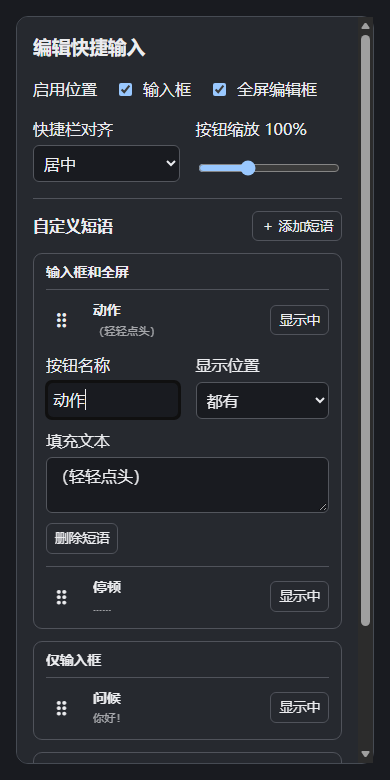
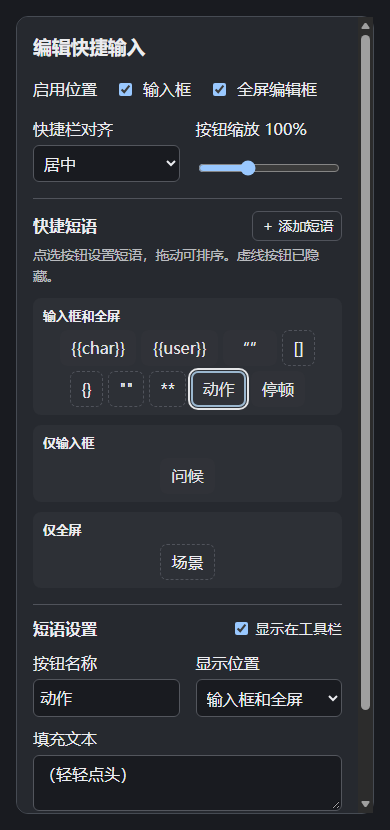
横向展示短语按钮并分离短语设置区

diff --git a/tools/editor-phrases.js b/tools/editor-phrases.js
@@ -1,6 +1,7 @@
 import { getPhrases } from './editor-phrase-catalog.js';
+import { getToolbarScale } from './toolbar-scale.js';
 
-const positions = new Map([['both', '都有'], ['chat', '仅输入框'], ['fullscreen', '仅全屏']]);
+const positions = new Map([['both', '输入框和全屏'], ['chat', '仅输入框'], ['fullscreen', '仅全屏']]);
 
 function element(tag, className, text) {
     const node = document.createElement(tag);
@@ -9,11 +10,9 @@ function element(tag, className, text) {
     return node;
 }
 
-function button(text, title) {
-    const node = element('button', 'st-phrase-action', text);
+function button(text, className) {
+    const node = element('button', className, text);
     node.type = 'button';
-    node.title = title;
-    node.setAttribute('aria-label', title);
     return node;
 }
 
@@ -21,14 +20,15 @@ export function addPhraseSettings(canvas, config) {
     const phrases = config.phrases = getPhrases(config);
     const section = element('section', 'st-phrases');
     const header = element('div', 'st-phrases-heading');
-    const add = button('＋ 添加短语', '添加短语');
+    const add = button('＋ 添加短语', 'st-phrase-action');
     header.append(element('h4', '', '快捷短语'), add);
     const lists = element('div', 'st-phrases-lists');
-    section.append(header, lists);
-    canvas.append(section);
-    let editing;
-    const rows = new Map();
-    const groups = new Map();
+    const settings = element('section', 'st-phrase-settings');
+    section.append(header, element('small', 'st-phrase-hint', '点选按钮设置短语，拖动可排序。虚线按钮已隐藏。'), lists);
+    canvas.append(section, settings);
+
+    let selected = phrases[0];
+    const chips = new Map();
 
     function move(phrase, position, before) {
         if (before === phrase || (phrase.builtin && position !== 'both')) return;
@@ -37,159 +37,153 @@ export function addPhraseSettings(canvas, config) {
         phrases.splice(before ? phrases.indexOf(before) : phrases.length, 0, phrase);
     }
 
-    function attachHandle(handle, phrase) {
-        handle.addEventListener('keydown', event => {
+    function attachDrag(chip, phrase) {
+        chip.onkeydown = event => {
             const siblings = phrases.filter(item => item.position === phrase.position);
             const index = siblings.indexOf(phrase);
-            const direction = { ArrowUp: -1, ArrowDown: 1 }[event.key];
+            const direction = { ArrowLeft: -1, ArrowRight: 1 }[event.key];
             if (!direction || !siblings[index + direction]) return;
             event.preventDefault();
             move(phrase, phrase.position, siblings[index + (direction < 0 ? -1 : 2)]);
-            render();
-            rows.get(phrase).querySelector('button').focus();
-        });
-        handle.addEventListener('pointerdown', event => {
-            if (event.button !== 0 || !event.isPrimary) return;
-            event.preventDefault();
-            handle.setPointerCapture(event.pointerId);
-            const row = rows.get(phrase);
-            row.classList.add('moving');
-            let target;
-            function locate(e) {
-                lists.querySelector('.drop-before, .drop-end')?.classList.remove('drop-before', 'drop-end');
-                target = undefined;
-                const hit = document.elementFromPoint(e.clientX, e.clientY);
-                const group = hit?.closest('.st-phrase-group');
-                if (!lists.contains(group)) return;
+            select(phrase);
+            chips.get(phrase).focus();
+        };
+        chip.onpointerdown = down => {
+            if (down.button !== 0 || !down.isPrimary) return;
+            chip.setPointerCapture(down.pointerId);
+            let dragging = false;
+            let marker;
+            function locate(event) {
+                marker?.classList.remove('drop-before', 'drop-end');
+                const group = document.elementFromPoint(event.clientX, event.clientY)?.closest('.st-phrase-group');
+                if (!lists.contains(group) || (phrase.builtin && group.dataset.position !== 'both')) return;
                 const position = group.dataset.position;
                 const before = phrases.find(item => {
                     if (item.position !== position) return false;
-                    const rect = rows.get(item).getBoundingClientRect();
-                    return e.clientY < rect.top + rect.height / 2;
+                    const rect = chips.get(item).getBoundingClientRect();
+                    return event.clientY < rect.top || (event.clientY <= rect.bottom && event.clientX < rect.left + rect.width / 2);
                 });
-                target = { position, before };
-                (before ? rows.get(before) : group).classList.add(before ? 'drop-before' : 'drop-end');
+                marker = before ? chips.get(before) : group;
+                marker.classList.add(before ? 'drop-before' : 'drop-end');
+                return { position, before };
             }
-            handle.onpointermove = locate;
-            handle.onpointerup = e => {
-                if (target) {
-                    locate(e);
-                    if (target) move(phrase, target.position, target.before);
-                }
-                render();
+            chip.onpointermove = event => {
+                if (Math.hypot(event.clientX - down.clientX, event.clientY - down.clientY) >= 5) dragging = true;
+                if (dragging) locate(event);
             };
-            handle.onlostpointercapture = () => {
-                row.classList.remove('moving');
-                lists.querySelector('.drop-before, .drop-end')?.classList.remove('drop-before', 'drop-end');
-                handle.onpointermove = handle.onpointerup = handle.onlostpointercapture = null;
+            chip.onpointerup = event => {
+                if (!dragging) return;
+                const target = locate(event);
+                if (target) move(phrase, target.position, target.before);
+                select(phrase);
             };
-        });
+            chip.onlostpointercapture = () => {
+                marker?.classList.remove('drop-before', 'drop-end');
+                chip.onpointermove = chip.onpointerup = chip.onlostpointercapture = null;
+            };
+        };
     }
 
-    function editor(phrase, preview) {
-        const panel = element('div', 'st-phrase-fields');
+    function updateAppearance() {
+        lists.style.setProperty('--phrase-scale', getToolbarScale(config) + '%');
+        lists.style.setProperty('--phrase-align', config.alignment || 'center');
+    }
+    canvas.addEventListener('input', updateAppearance);
+    canvas.addEventListener('change', updateAppearance);
+    updateAppearance();
+
+    function drawLists() {
+        chips.clear();
+        lists.replaceChildren();
+        for (const [position, label] of positions) {
+            const group = element('div', 'st-phrase-group');
+            group.dataset.position = position;
+            const strip = element('div', 'st-phrase-strip');
+            strip.setAttribute('role', 'group');
+            strip.setAttribute('aria-label', label);
+            group.append(element('h5', '', label), strip);
+            lists.append(group);
+            for (const phrase of phrases.filter(item => item.position === position)) {
+                const chip = button(phrase.name || '新短语', 'st-phrase-chip');
+                chip.setAttribute('aria-pressed', String(selected === phrase));
+                chip.classList.toggle('muted', Boolean(phrase.hidden));
+                chip.title = [phrase.name || '新短语', phrase.builtin ? '内置短语' : '自定义短语', phrase.hidden ? '已隐藏' : '显示中'].join(' · ');
+                chip.onclick = () => {
+                    select(phrase);
+                    chips.get(phrase).focus({ preventScroll: true });
+                };
+                attachDrag(chip, phrase);
+                chips.set(phrase, chip);
+                strip.append(chip);
+            }
+            if (!strip.childElementCount) strip.append(element('small', 'st-phrase-empty', '暂无短语'));
+        }
+    }
+
+    function select(phrase) {
+        selected = phrase;
+        drawLists();
+        settings.replaceChildren();
+        const heading = element('div', 'st-phrases-heading');
+        const visible = element('label', 'st-phrase-visible');
+        const checkbox = element('input');
+        checkbox.type = 'checkbox';
+        checkbox.checked = !phrase.hidden;
+        checkbox.onchange = () => { phrase.hidden = !checkbox.checked; drawLists(); };
+        visible.append(checkbox, '显示在工具栏');
+        heading.append(element('h4', '', '短语设置'), visible);
+        settings.append(heading);
+        if (phrase.builtin) {
+            settings.append(element('p', 'st-phrase-hint', phrase.name + ' · 内置短语，可调整顺序和显示状态。'));
+            return;
+        }
+        const fields = element('div', 'st-phrase-fields');
         function field(title, control) {
             const label = element('label', '', title);
             control.className = 'text_pole';
             label.append(control);
-            panel.append(label);
+            fields.append(label);
         }
         const name = element('input');
         name.value = phrase.name;
         name.required = true;
-        name.oninput = () => {
-            phrase.name = name.value;
-            preview.firstElementChild.textContent = phrase.name || '新短语';
-        };
+        name.oninput = () => { phrase.name = name.value; drawLists(); };
         field('按钮名称', name);
         const position = element('select');
         for (const [value, label] of positions) position.add(new Option(label, value));
         position.value = phrase.position;
-        position.onchange = () => {
-            move(phrase, position.value);
-            render();
-            rows.get(phrase).querySelector('select').focus();
-        };
+        position.onchange = () => { move(phrase, position.value); drawLists(); };
         field('显示位置', position);
         const text = element('textarea');
         text.rows = 2;
         text.required = true;
         text.value = phrase.text;
-        text.oninput = () => {
-            phrase.text = text.value;
-            preview.lastElementChild.textContent = phrase.builtin ? '内置短语' : phrase.text || '填写短语内容';
-        };
+        text.oninput = () => { phrase.text = text.value; };
         field('填充文本', text);
-        const remove = button('删除短语', '删除短语');
+        const remove = button('删除短语', 'st-phrase-action');
         remove.onclick = () => {
             phrases.splice(phrases.indexOf(phrase), 1);
-            editing = undefined;
-            render();
+            select(phrases[0]);
             add.focus();
         };
-        panel.append(remove);
-        return panel;
-    }
-
-    function render() {
-        rows.clear();
-        groups.clear();
-        lists.replaceChildren();
-        for (const [position, label] of positions) {
-            const group = element('div', 'st-phrase-group');
-            group.dataset.position = position;
-            group.append(element('h5', '', position === 'both' ? '输入框和全屏' : label));
-            groups.set(position, group);
-            lists.append(group);
-        }
-        for (const phrase of phrases) {
-            const row = element('div', 'st-phrase-row');
-            const handle = button('⠿', '拖动排序或更改分组，也可用上下方向键排序');
-            handle.classList.add('st-phrase-handle');
-            attachHandle(handle, phrase);
-            const edit = button('', '编辑短语');
-            edit.classList.add('st-phrase-edit');
-            edit.setAttribute('aria-expanded', String(editing === phrase));
-            edit.append(element('strong', '', phrase.name || '新短语'), element('small', '', phrase.text || '填写短语内容'));
-            edit.disabled = Boolean(phrase.builtin);
-            edit.onclick = () => {
-                editing = editing === phrase ? undefined : phrase;
-                render();
-                rows.get(phrase).querySelector(editing ? 'input' : '.st-phrase-edit').focus();
-            };
-            const visibility = button('', '切换短语显示');
-            function updateVisibility() {
-                visibility.textContent = phrase.hidden ? '已隐藏' : '显示中';
-                visibility.setAttribute('aria-pressed', String(!phrase.hidden));
-                row.classList.toggle('muted', Boolean(phrase.hidden));
-            }
-            visibility.onclick = () => { phrase.hidden = !phrase.hidden; updateVisibility(); };
-            updateVisibility();
-            row.append(handle, edit, visibility);
-            if (editing === phrase) row.append(editor(phrase, edit));
-            groups.get(phrase.position).append(row);
-            rows.set(phrase, row);
-        }
-        for (const group of groups.values()) {
-            if (group.childElementCount === 1) group.append(element('small', 'st-phrase-empty', '暂无短语'));
-        }
+        fields.append(remove);
+        settings.append(fields);
     }
 
     add.onclick = () => {
-        editing = { name: '', text: '', position: 'both' };
-        phrases.push(editing);
-        render();
-        rows.get(editing).querySelector('input').focus();
+        const phrase = { name: '', text: '', position: 'both' };
+        phrases.push(phrase);
+        select(phrase);
+        settings.querySelector('.st-phrase-fields input').focus();
     };
-    render();
+    select(selected);
     return () => {
         const invalid = phrases.find(item => !item.builtin && (!item.name.trim() || !item.text.length));
         if (!invalid) return true;
-        editing = invalid;
-        render();
-        const control = rows.get(invalid).querySelector(!invalid.name.trim() ? 'input' : 'textarea');
+        select(invalid);
+        const control = settings.querySelector(!invalid.name.trim() ? '.st-phrase-fields input' : 'textarea');
         control.focus();
-        control.setCustomValidity('请填写' + (!invalid.name.trim() ? '按钮名称' : '填充文本'));
+        control.setCustomValidity(!invalid.name.trim() ? '请填写按钮名称' : '请填写填充文本');
         control.reportValidity();
         control.addEventListener('input', () => control.setCustomValidity(''), { once: true });
         return false;

diff --git a/style.css b/style.css
@@ -1,4 +1,4 @@
-.st-my-tweaks-editor-shortcuts > button {
+.st-my-tweaks-editor-shortcuts > button, .st-phrase-chip {
     max-width: 100%;
     overflow-wrap: anywhere;
     appearance: none;
@@ -60,26 +60,27 @@
     gap: 4px;
 }
 
-.st-phrases { border-top: 1px solid var(--phrase-line); padding-top: 12px; }
+.st-phrases, .st-phrase-settings { border-top: 1px solid var(--phrase-line); padding-top: 12px; }
 .st-phrases-heading { justify-content: space-between; }
-.st-phrases h4, .st-phrases h5 { margin: 0; }
-.st-phrases-lists { display: grid; gap: 12px; margin-top: 12px; }
+.st-phrases-heading h4, .st-phrase-group h5 { margin: 0; }
+.st-phrase-hint, .st-phrase-empty { opacity: 0.75; font-size: 0.85em; }
+.st-phrase-hint { display: block; margin: 4px 0 0; }
+.st-phrases-lists { display: grid; gap: 10px; margin-top: 12px; }
 .st-phrase-group {
-    border: 1px solid var(--phrase-line);
-    border-radius: 9px;
-    padding: 8px 12px;
+    background: color-mix(in srgb, currentColor 4%, transparent);
+    border-radius: 8px;
+    padding: 8px 10px;
 }
-.st-phrase-group h5 { font-size: 0.86em; font-weight: 600; }
-.st-phrase-empty { display: block; opacity: 0.65; padding-top: 5px; }
-.st-phrase-row {
-    display: grid;
-    grid-template-columns: auto minmax(0, 1fr) auto;
-    gap: 4px 8px;
-    align-items: center;
-    border-top: 1px solid var(--phrase-line);
-    margin-top: 6px;
-    padding-top: 6px;
-}
+.st-phrase-group h5 { font-size: 0.8em; font-weight: 600; margin-bottom: 5px; }
+.st-phrase-strip { display: flex; flex-wrap: wrap; gap: 5px; justify-content: var(--phrase-align); }
+.st-phrase-chip { zoom: var(--phrase-scale); touch-action: none; cursor: grab; }
+.st-phrase-chip:active { cursor: grabbing; }
+.st-phrase-chip.muted { background: transparent; color: inherit; outline: 1px dashed var(--phrase-line); outline-offset: -1px; }
+.st-phrase-chip[aria-pressed="true"] { box-shadow: inset 0 0 0 2px #9bb7cf; }
+.st-phrase-chip:focus-visible { outline: 2px solid currentColor; outline-offset: 1px; }
+.st-phrase-chip.drop-before { box-shadow: -3px 0 #9bb7cf; }
+.st-phrase-group.drop-end { box-shadow: inset -3px 0 #9bb7cf; }
+.st-phrase-visible { display: inline-flex; gap: 5px; align-items: center; font-size: 0.9em; }
 .st-phrase-action {
     font: inherit;
     font-size: 0.85em;
@@ -91,14 +92,7 @@
     cursor: pointer;
 }
 .st-phrase-action:hover { background: color-mix(in srgb, currentColor 9%, transparent); }
-.st-phrase-handle { cursor: grab; touch-action: none; border: 0; font-size: 1.25em; }
-.st-phrase-edit { display: grid; gap: 2px; text-align: start; min-width: 0; border: 0; }
-.st-phrase-edit > * { overflow: hidden; text-overflow: ellipsis; white-space: nowrap; }
-.st-phrase-edit small, .st-phrase-row.muted .st-phrase-edit { opacity: 0.65; }
-.st-phrase-row.moving { opacity: 0.55; }
-.st-phrase-row.drop-before { border-top-color: currentColor; }
-.st-phrase-group.drop-end { border-bottom-color: currentColor; }
-.st-phrase-fields { grid-column: 1 / -1; margin-block: 6px; }
+.st-phrase-fields { margin-top: 10px; }
 .st-phrase-fields label:has(textarea) { grid-column: 1 / -1; }
 .st-phrase-fields textarea { field-sizing: content; min-height: 3.5em; resize: vertical; }
 .st-phrase-fields button { justify-self: start; }

diff --git a/README.md b/README.md
@@ -129,7 +129,9 @@ Windows 创建符号链接需要启用开发者模式或使用有相应权限的
 
 点击工具旁的「设置」可选择左对齐、居中或右对齐，并将按钮缩放设为 75%–150%。默认居中、100%。点击「保存」后设置立即生效，并随 SillyTavern 用户设置保存。
 
-在「自定义短语」中点击「添加短语」，填写按钮名称、填充文本，并选择「都有」「仅输入框」或「仅全屏」。点击列表中的短语可再次编辑或删除，点击「显示中／已隐藏」可切换可见性。拖动左侧手柄可调整顺序或移入其他分组，聚焦手柄后也可用上下方向键在组内排序。工具栏先显示共用短语，再显示当前位置专用的短语。点击短语按钮会在光标处插入原文，或替换当前选区。
+「快捷短语」按显示位置横向排列，虚线按钮表示已隐藏。点选按钮后，在下方独立的「短语设置」区切换显隐；自定义短语还可修改名称、显示位置和填充文本，或删除。点击「添加短语」可新建。拖动按钮可排序，也可用左右方向键在组内移动。自定义短语可跨组拖动。工具栏先显示共用短语，再显示当前位置专用的短语。
+
+内置短语固定用于两处，可排序和切换显隐。除默认显示的两个宏和中文引号外，还有默认隐藏的 `[]`、`{}`、`""` 和 `**`。这些按钮在光标两侧各插入一个符号；有选区时包裹选区，再次点击可解除包裹。
 
 ## 提示词编辑工具栏
 
